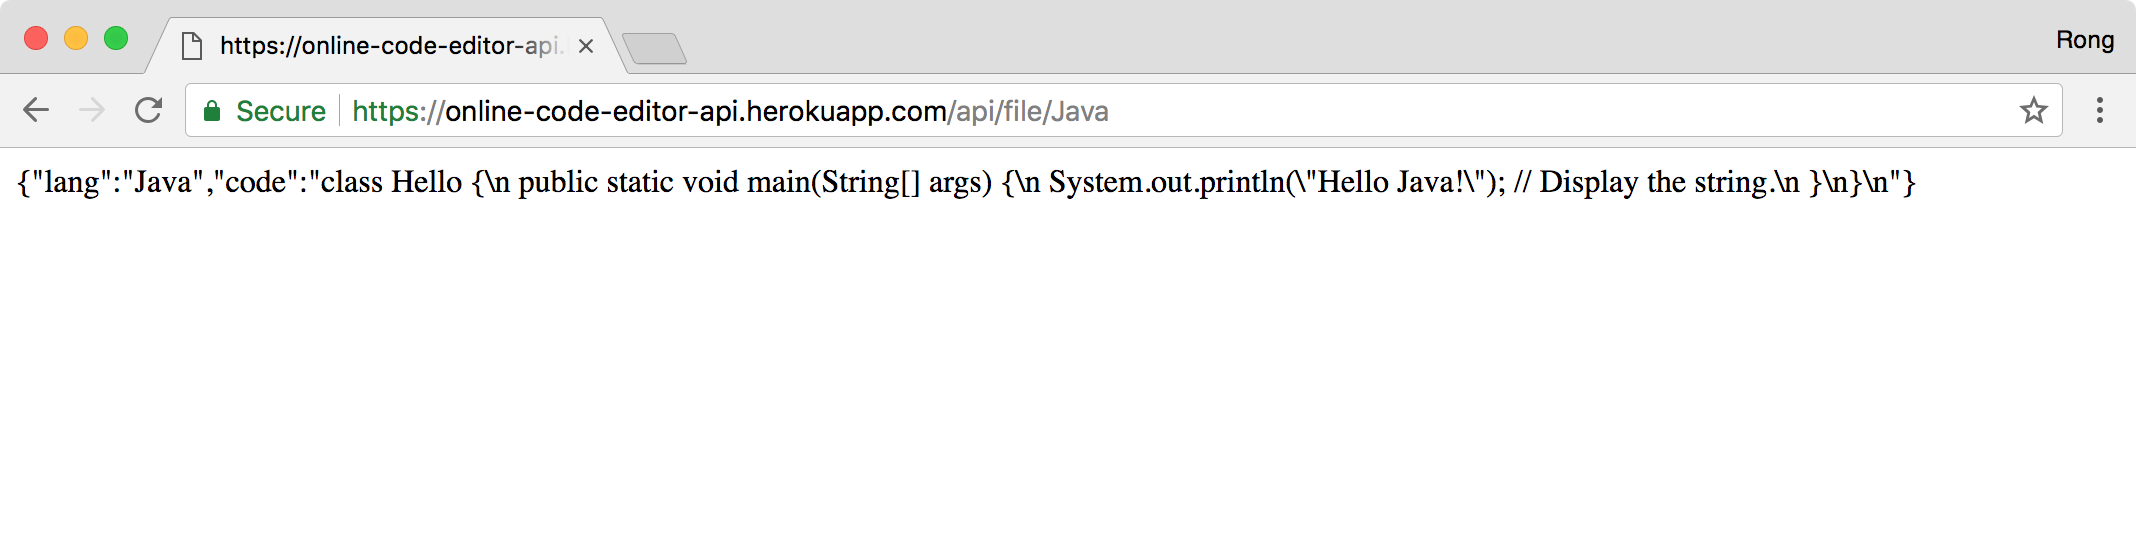
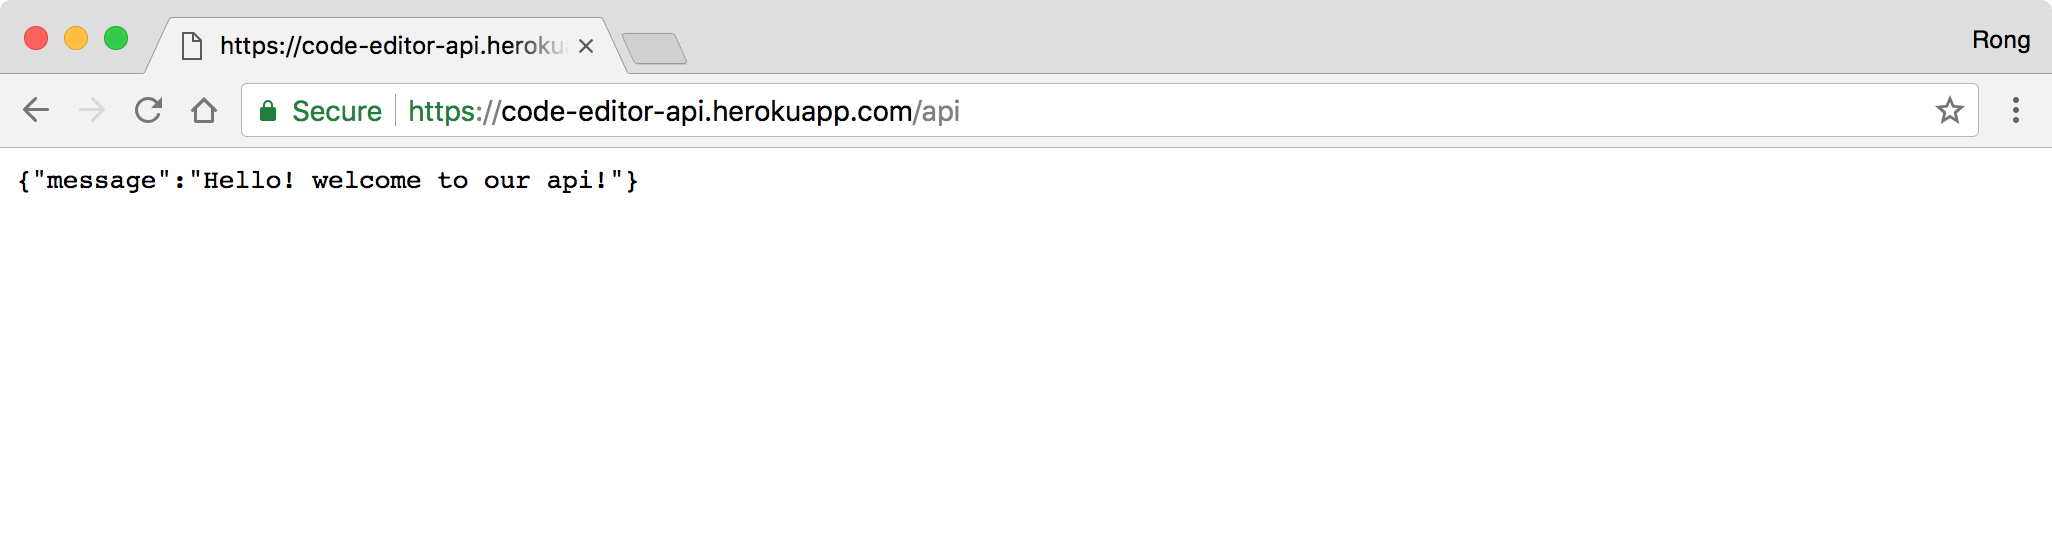
rename tutorial deploy full stack react app

diff --git a/_tutorial/react/deploying-full-stack-react-app-to-heroku.md b/_tutorial/react/deploying-full-stack-react-app-to-heroku.md
@@ -1,7 +1,7 @@
 ---
 layout: tutorial
 key: tutorial
-title: "Deploying Full Stack Node.js App to Heroku"
+title: "Deploying Full Stack React App to Heroku"
 index: 374
 category: reactjs
 image: reactjs.png
@@ -9,10 +9,58 @@ date: 2018-02-12
 tags: [Nodejs, Heroku]
 ---
 
-> Introduce how to deploy a Full Stack app to Heroku.
+> Introduce how to deploy a Full Stack(React + Express) app to Heroku.
 
 ## 1. Full Stack App
 In the posting [Building Online Code Editor with React and Express]({% link _tutorial/react/building-online-code-editor-with-react-and-express.md %}), I introduced how to build an online code editor with [React](https://reactjs.org/) and [Node.js](https://nodejs.org/en/). In this posting, I will introduce how to deploy both the front end(Implemented with React) and the backend(Implemented with express) to [Heroku](https://www.heroku.com/). We will create two sites on Heroku. One is for the React app and another is for the express app.
+### 1.1 Deployment Preparation for API Server
+Nothing needs to be done for the express, as there is no database connection required, no need to set db url.
+### 1.2 Deployment Preparation for Angular
+Edit 'webpack.parts.js', use `DefinePlugin` to set api url to environment variable 'API_URL'.
+```javascript
+...
+
+const webpack = require('webpack');
+
+exports.loadEnv = url => ({
+  plugins: [
+    new webpack.DefinePlugin({
+      'process.env': {
+        API_URL: JSON.stringify(url)
+      },
+    }),
+  ],
+});
+```
+Edit 'webpack.config.js', call 'loadEnv()' method to set URL for production and development.
+```javascript
+const productionConfig = merge([
+  parts.loadEnv('https://code-editor-api.herokuapp.com'),
+
+  ...
+
+]);
+const developmentConfig = merge([
+  parts.loadEnv('http://localhost:8080'),
+
+  ...
+
+]);
+```
+Edit 'package.json', add 'build' command to compile React app and output to 'dist'.
+```javascript
+"scripts": {
+  "start": "node src/server/index.js",
+  "build": "webpack --env production ",
+  "client":
+    "PORT=3000 webpack-dev-server --env development --devtool inline-source-map --hot",
+  "client-prod": "PORT=3001 webpack-dev-server",
+  "server": "nodemon src/server/index.js",
+  "dev": "concurrently \"npm run server\" \"npm run client\"",
+  "prod": "concurrently \"npm run server\" \"npm run client-prod\""
+},
+```
+* Notice, command 'prod' is used to test React app in production mode. The dropdown list should only contains two options: javascript and python in this mode.
 
 ## 2. Heroku
 [Heroku](https://www.heroku.com/) is a platform as a service (PaaS) that enables developers to build, run, and operate applications entirely in the cloud.
@@ -31,8 +79,8 @@ Password: **********
 ```
 2) Create Heroku App
 ```sh
-$ heroku create                        // no name, a random name will be assigned to the app
-$ heroku create online-code-editor-api // create app with the given name
+$ heroku create                   // no name, a random name will be assigned to the app
+$ heroku create code-editor-api   // create app with the given name
 ```
 3) View logs
 ```sh
@@ -66,7 +114,7 @@ $ cd code-editor-react
 ```
 2) Create App on Heroku
 ```sh
-$ heroku create online-code-editor-api
+$ heroku create code-editor-api
 ```
 * When creating an app, a git remote (called heroku) is also created and associated with the local git repository.
 
@@ -108,25 +156,32 @@ remote:
 remote:  !     Push failed
 remote: Verifying deploy....
 remote:
-remote: !	Push rejected to online-code-editor-api.
+remote: !	Push rejected to code-editor-api.
 remote:
-To https://git.heroku.com/online-code-editor-api.git
+To https://git.heroku.com/code-editor-api.git
  ! [remote rejected] master -> master (pre-receive hook declined)
-error: failed to push some refs to 'https://git.heroku.com/online-code-editor-api.git'
+error: failed to push some refs to 'https://git.heroku.com/code-editor-api.git'
 ```
 Error occurs, we need to decide whether to use `npm` or `yarn` to manage dependencies. Notice that when the React App was created, both yarn lock file `yarn.lock` and npm lock file `package-lock.json` were generated. I decide to use npm, so remove yarn.lock from git staging and try to push again.
 ```sh
 $ git rm yarn.lock
 rm 'yarn.lock'
-git commit -m "remove yarn.lock"
+$ git commit -m "remove yarn.lock"
 [master 7944b7d] remove yarn.lock
  1 file changed, 7423 deletions(-)
  delete mode 100644 yarn.lock
 $ git push heroku master
 ```
+If you changed the app name or you are deploying new changes. You need to re-connect your git repository to Heroku app.
+```sh
+$ git remote rm heroku
+$ heroku git:remote -a code-editor-api
+```
 4) Testing Server  
-Open web browser, access 'https://online-code-editor-api.herokuapp.com/api/file/Java'. The API is working now.
+Open web browser, access 'https://code-editor-api.herokuapp.com/api'. The API is working now.
 ![image](/public/tutorials/374/api.png)
+If we access https://code-editor-api.herokuapp.com/api/file/Java, it returns some java source codes.
+![image](/public/tutorials/374/java.png)
 
 ### 3.2 Client
 1) Build react app.
@@ -137,7 +192,7 @@ The React app is built and exported to dist folder. All are static files(html, j
 ![image](/public/tutorials/374/build.png){:width="800px"}  
 2) Create App on Heroku
 ```sh
-$ heroku create online-code-editor
+$ heroku create code-editor
 ```
 3) Create git repository.
 ```sh
@@ -150,12 +205,16 @@ $ git push heroku master
 If you changed the app name or you are deploying new changes. You need to re-connect your git repository to Heroku app.
 ```sh
 $ git remote rm heroku
-$ heroku git:remote -a online-code-editor
+$ heroku git:remote -a code-editor
 ```
 4) Testing Server  
-Open web browser, access 'https://online-code-editor.herokuapp.com/'. The React app is working now.
+Open web browser, access 'https://code-editor.herokuapp.com/'. The React app is working now.
 ![image](/public/tutorials/374/client.png)
 * Notice, because the Client Side Routing doesn't work properly, I changed to the router rules to show editor in the root path /.
+
+In addition, notice that c, c++ and java are not supported in Heroku or Netlify. I got the CORS error when trying to execute java program.
+![image](/public/tutorials/374/cors_error.png)
+So these three languages are removed from the dropdown list in production mode. They are only available in dev mode, locally.
 
 ## 4. Heroku UI
 ### 4.1 Dashboard

diff --git a/_tutorial/angular/deploying-full-stack-angular-app-to-heroku.md b/_tutorial/angular/deploying-full-stack-angular-app-to-heroku.md
@@ -13,7 +13,7 @@ tags: [Angular, Heroku]
 
 ## 1. Full Stack App
 In the posting [Building Online Judge Application With Angular and ExpressJS]({% link _tutorial/angular/building-online-judge-application-with-angular-and-expressjs.md %}), I introduced how to build an online judge system with [Angular](https://angular.io/) and [ExpressJS](https://expressjs.com/). In this tutorial, I will introduce how to deploy both the front end(Implemented with Angular) and the backend(Implemented with express) to [Heroku](https://www.heroku.com/). We will create two sites on Heroku. One is for the Angular app and another is for the express app.
-### 1.1 Prepare for Deployment(Express Server)
+### 1.1 Deployment Preparation for API Server
 Edit './server/config/server-config.js'.
 ```javascript
 //mongodb_url: "mongodb://stage_dev:abc123@ds163781.mlab.com/onlinejudge_dev",
@@ -97,7 +97,7 @@ if (process.env.NODE_ENV === "production") {
 console.log("dbURI:", dbURI);
 mongoose.connect(dbURI);
 ```
-### 1.2 Prepare for Deployment(Angular)
+### 1.2 Deployment Preparation for Angular
 Edit './src/environments/environment.prod.ts'
 ```typescript
 export const environment = {
